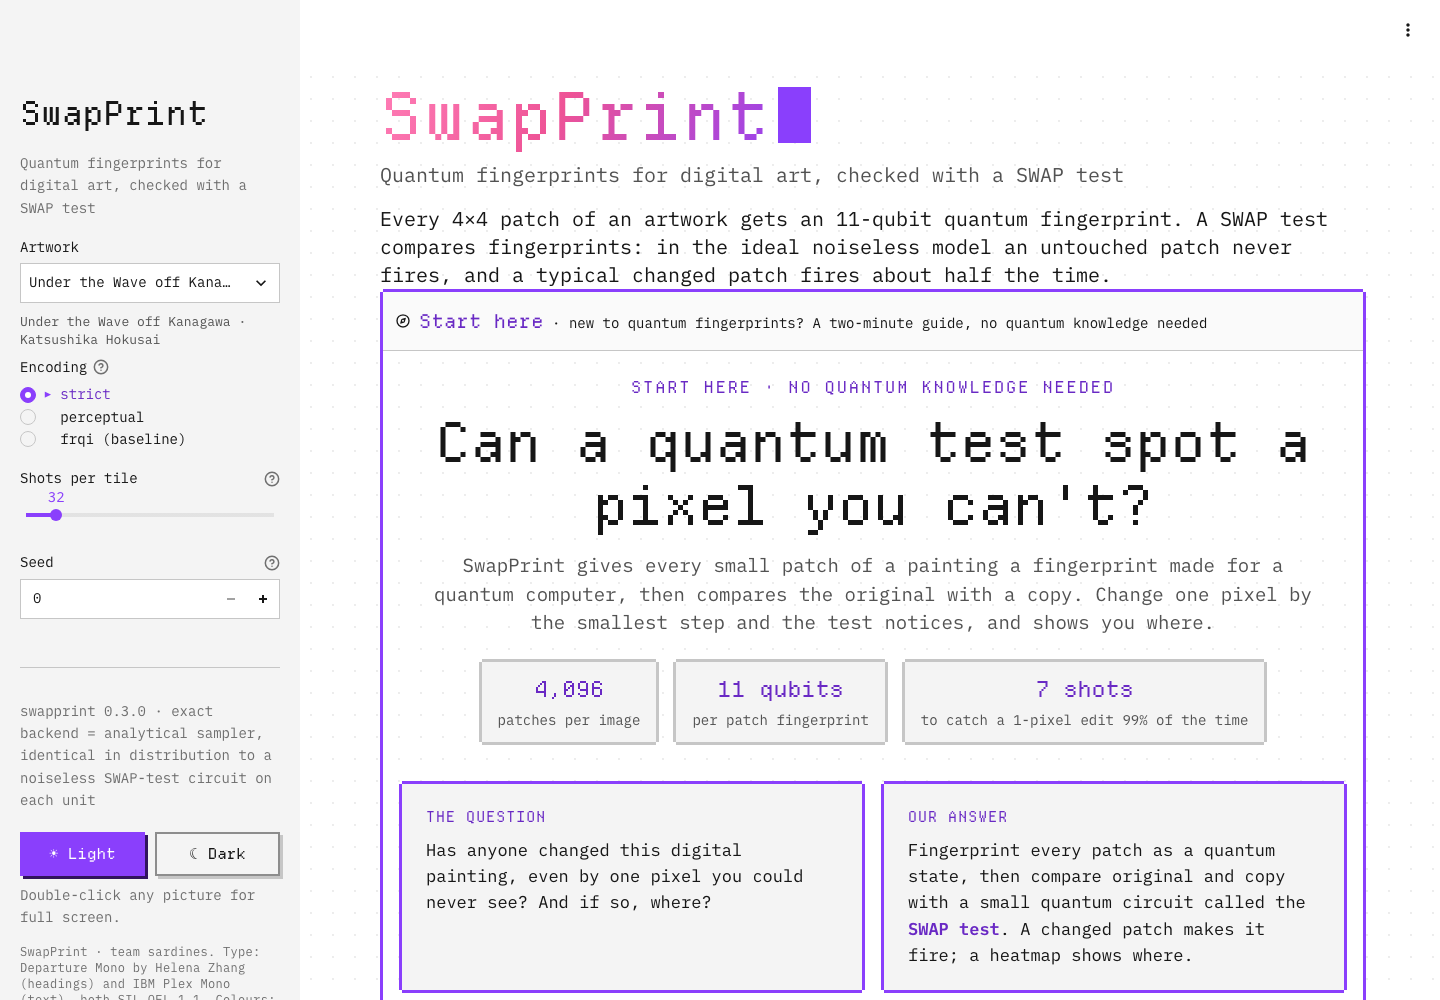
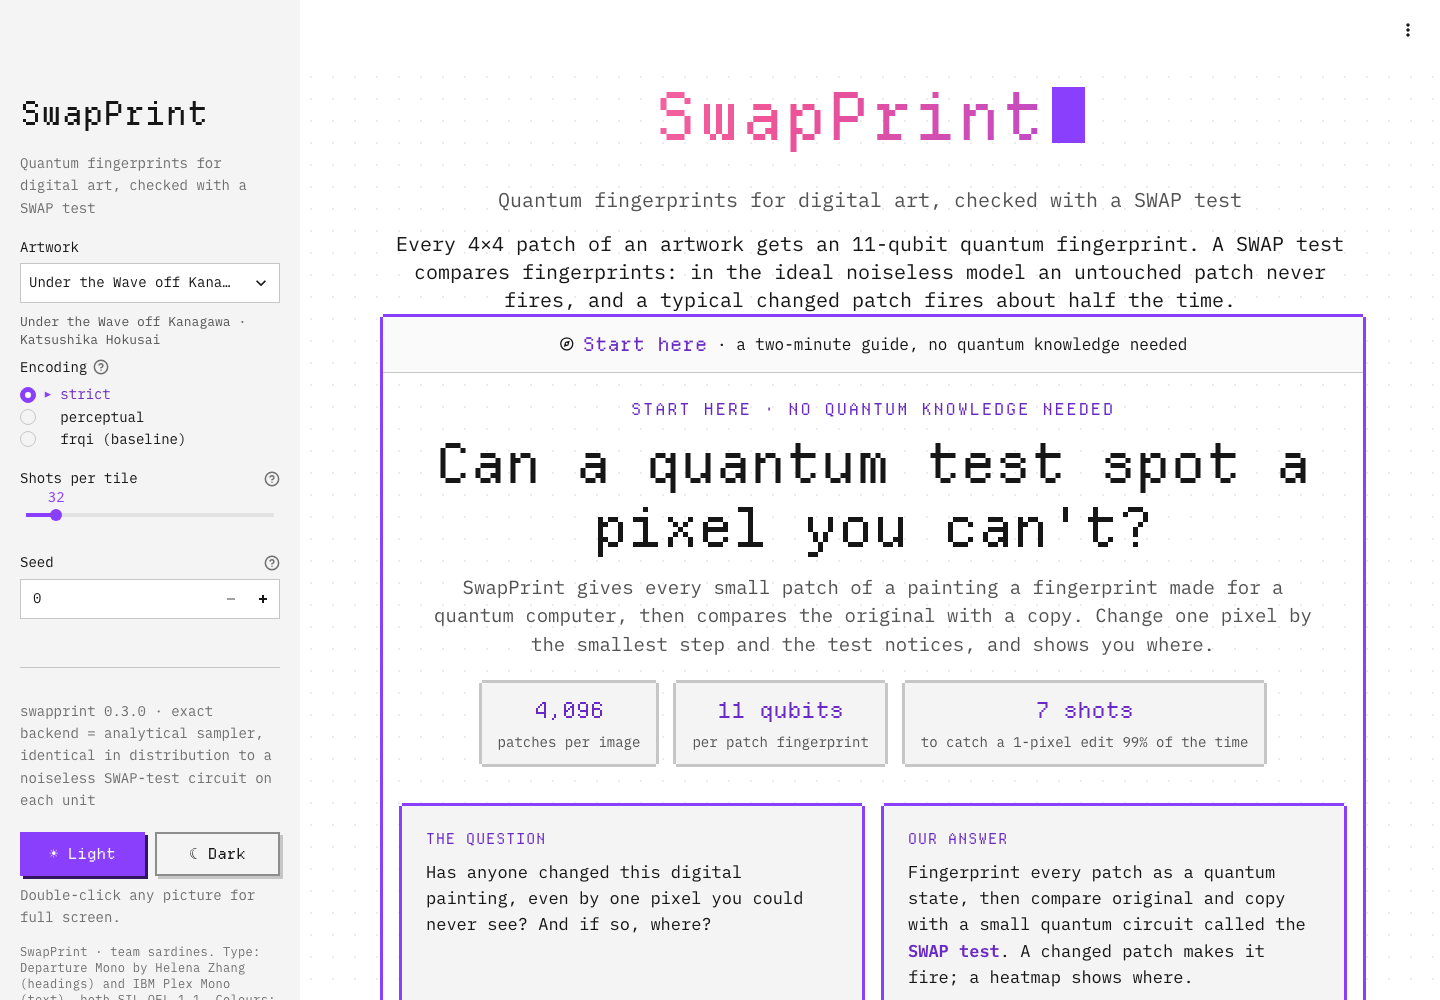
app: centred layout, tidy Start here bar, no gap under clickable pictures (Ansh's requests)
- Title, subtitle, intro, Start here bar, tab bar, headings, paragraphs, captions, game lines, verdicts,
  Results notes and the Simple explanations switch are centred; bullet lists, tables and sidebar controls stay
  left-aligned inside the centred layout for readability.
- Start here bar: one line ('a two-minute guide, no quantum knowledge needed'), icon and text centred together.
- streamlit-image-coordinates frames took the full-size image height (768 px) in narrow columns, leaving a
  ~480 px gap under the Edited picture on Tamper; they now keep the pictures' square shape. Clicks unchanged.
- Screenshots retaken.

Changed region(s): [[0.25, 0.062, 0.9375, 1.0], [0.2812, 0.434, 0.375, 0.496]]

diff --git a/app/pixel.css b/app/pixel.css
@@ -223,3 +223,30 @@ label[data-testid="stRadioOption"][data-selected="true"] [data-testid="stMarkdow
 }
 .sp-line.hit { --frame: var(--alert); color: var(--alert-text); }
 .sp-line.quiet { --frame: var(--border-subtle); color: var(--text-secondary); }
+
+/* Centred layout (Ansh): title block, Start here bar, tab bar, headings, paragraphs, captions, game lines and Results
+   notes are centred. Bullet lists, tables and the sidebar's form controls stay left-aligned inside it, for reading. */
+[data-testid="stMain"] .sp-title, [data-testid="stMain"] .sp-sub, [data-testid="stMain"] .lead { text-align: center; }
+[data-testid="stMain"] h1, [data-testid="stMain"] h2, [data-testid="stMain"] h3, [data-testid="stMain"] h4,
+[data-testid="stMain"] h5, [data-testid="stMain"] h6 { text-align: center; }
+[data-testid="stMain"] [data-testid="stMarkdownContainer"] > p { text-align: center; }
+[data-testid="stMain"] [data-testid="stCaptionContainer"], [data-testid="stMain"] [data-testid="stCaptionContainer"] p { text-align: center; }
+[data-testid="stMain"] .sp-line, [data-testid="stMain"] .verdict, [data-testid="stMain"] .fine { text-align: center; }
+[data-testid="stMain"] table { margin-left: auto; margin-right: auto; }
+[data-testid="stMain"] [role="tablist"] { justify-content: center; }
+.sp-plain { text-align: center; margin-left: auto !important; margin-right: auto !important; border-left: 0 !important;
+  padding: 8px 12px 0 12px !important; border-top: var(--px) solid var(--accent); }
+
+/* Start here bar: one tidy centred line; icon, pixel title and text share a baseline */
+[data-testid="stExpander"]:has(.sp-hero) summary { justify-content: center; align-items: center; gap: 10px; }
+[data-testid="stExpander"]:has(.sp-hero) summary [data-testid="stMarkdownContainer"] p { margin: 0; font-size: 16px; line-height: 1.4; text-align: center; }
+[data-testid="stExpander"]:has(.sp-hero) summary strong { font-size: 19px; vertical-align: -1px; }
+[data-testid="stMain"] .sp-title { display: block; text-align: center; }
+[data-testid="stExpander"]:has(.sp-hero) summary > span, [data-testid="stExpander"]:has(.sp-hero) summary > span > div {
+  flex: 0 1 auto !important; justify-content: center; }
+[data-testid="stExpander"]:has(.sp-hero) summary > span, [data-testid="stExpander"]:has(.sp-hero) summary > span > div { width: auto !important; }
+[data-testid="stMain"] [data-testid="stCheckbox"] { width: fit-content; margin-left: auto; margin-right: auto; }
+
+/* clickable pictures (streamlit-image-coordinates) get a fixed-height frame from their full-size image, which left a
+   tall empty gap under them in narrow columns; every one of ours is square, so the frame follows its width */
+iframe[title="streamlit_image_coordinates.streamlit_image_coordinates"] { aspect-ratio: 1 / 1; height: auto !important; }

diff --git a/app/streamlit_app.py b/app/streamlit_app.py
@@ -1119,7 +1119,7 @@ def tab_results():
 
 # Start here sits above the tabs, open on arrival; collapsing it brings the tabs up. ?welcome=closed starts it
 # collapsed (used by the scripted demo recordings).
-with st.expander("**Start here** · new to quantum fingerprints? A two-minute guide, no quantum knowledge needed",
+with st.expander("**Start here** · a two-minute guide, no quantum knowledge needed",
                  expanded=st.query_params.get("welcome") != "closed", icon=":material/explore:"):
     tab_start()
 
